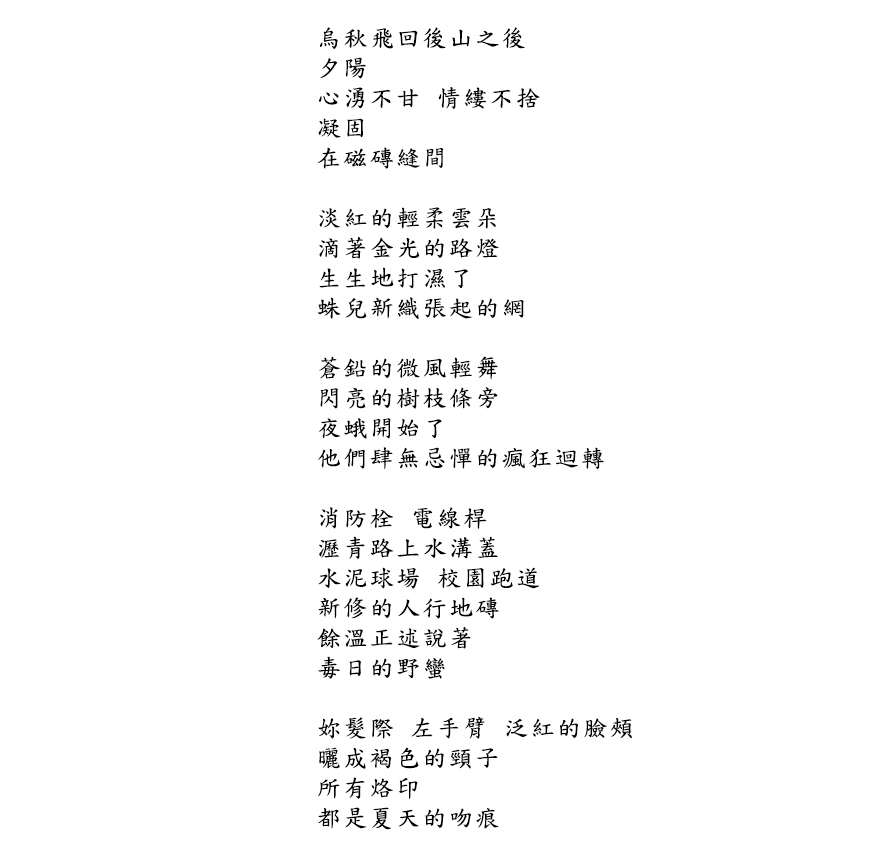
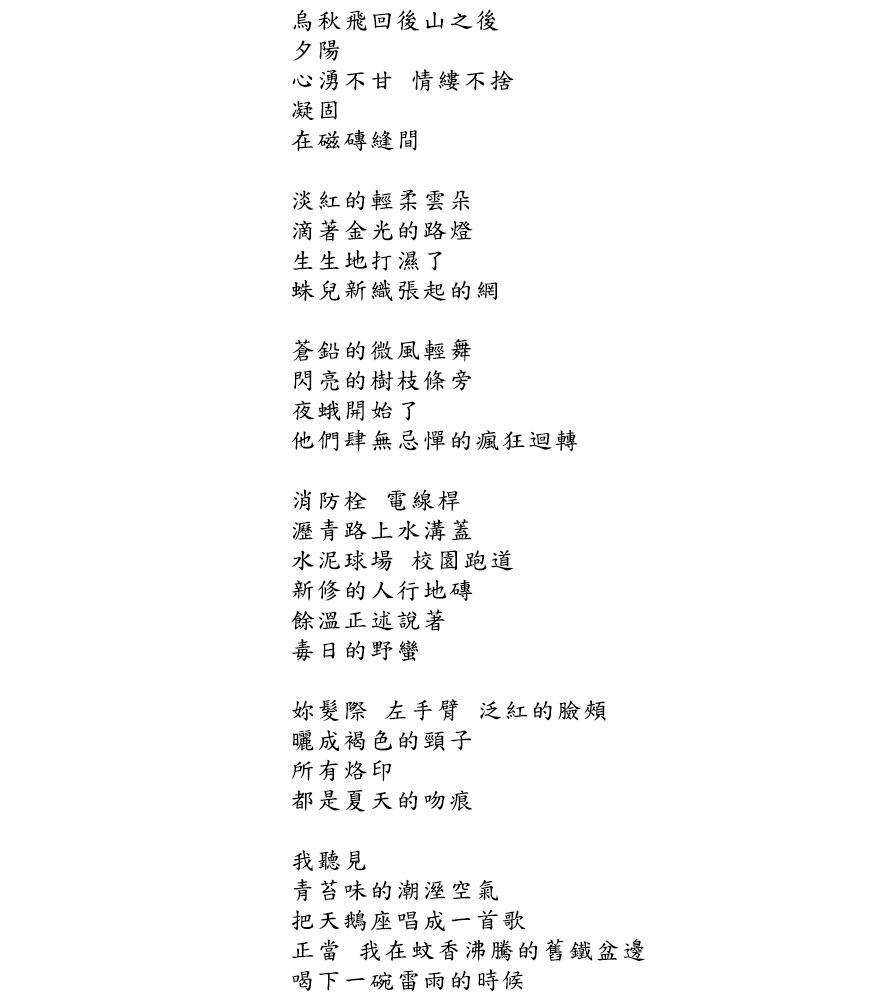
1000

Changed region(s): [[0.3394, 0.0, 0.7406, 1.0], [0.5863, 0.8259, 0.7406, 0.8871]]

diff --git a/compal7-3-2.html b/compal7-3-2.html
@@ -50,7 +50,7 @@ body {
       <div id="mainEntryTitleright2">郭家豪│產品工程二處</div>
     </div>
     <div id="compal-body">
-    <p><img src="images/7/7_3_02.jpg" alt="" width="875" height="850" border="0" /></p>
+    <p><img src="images/7/7_3_02.jpg" alt="" width="875" height="1000" border="0" /></p>
     </div>
 
   </div>
